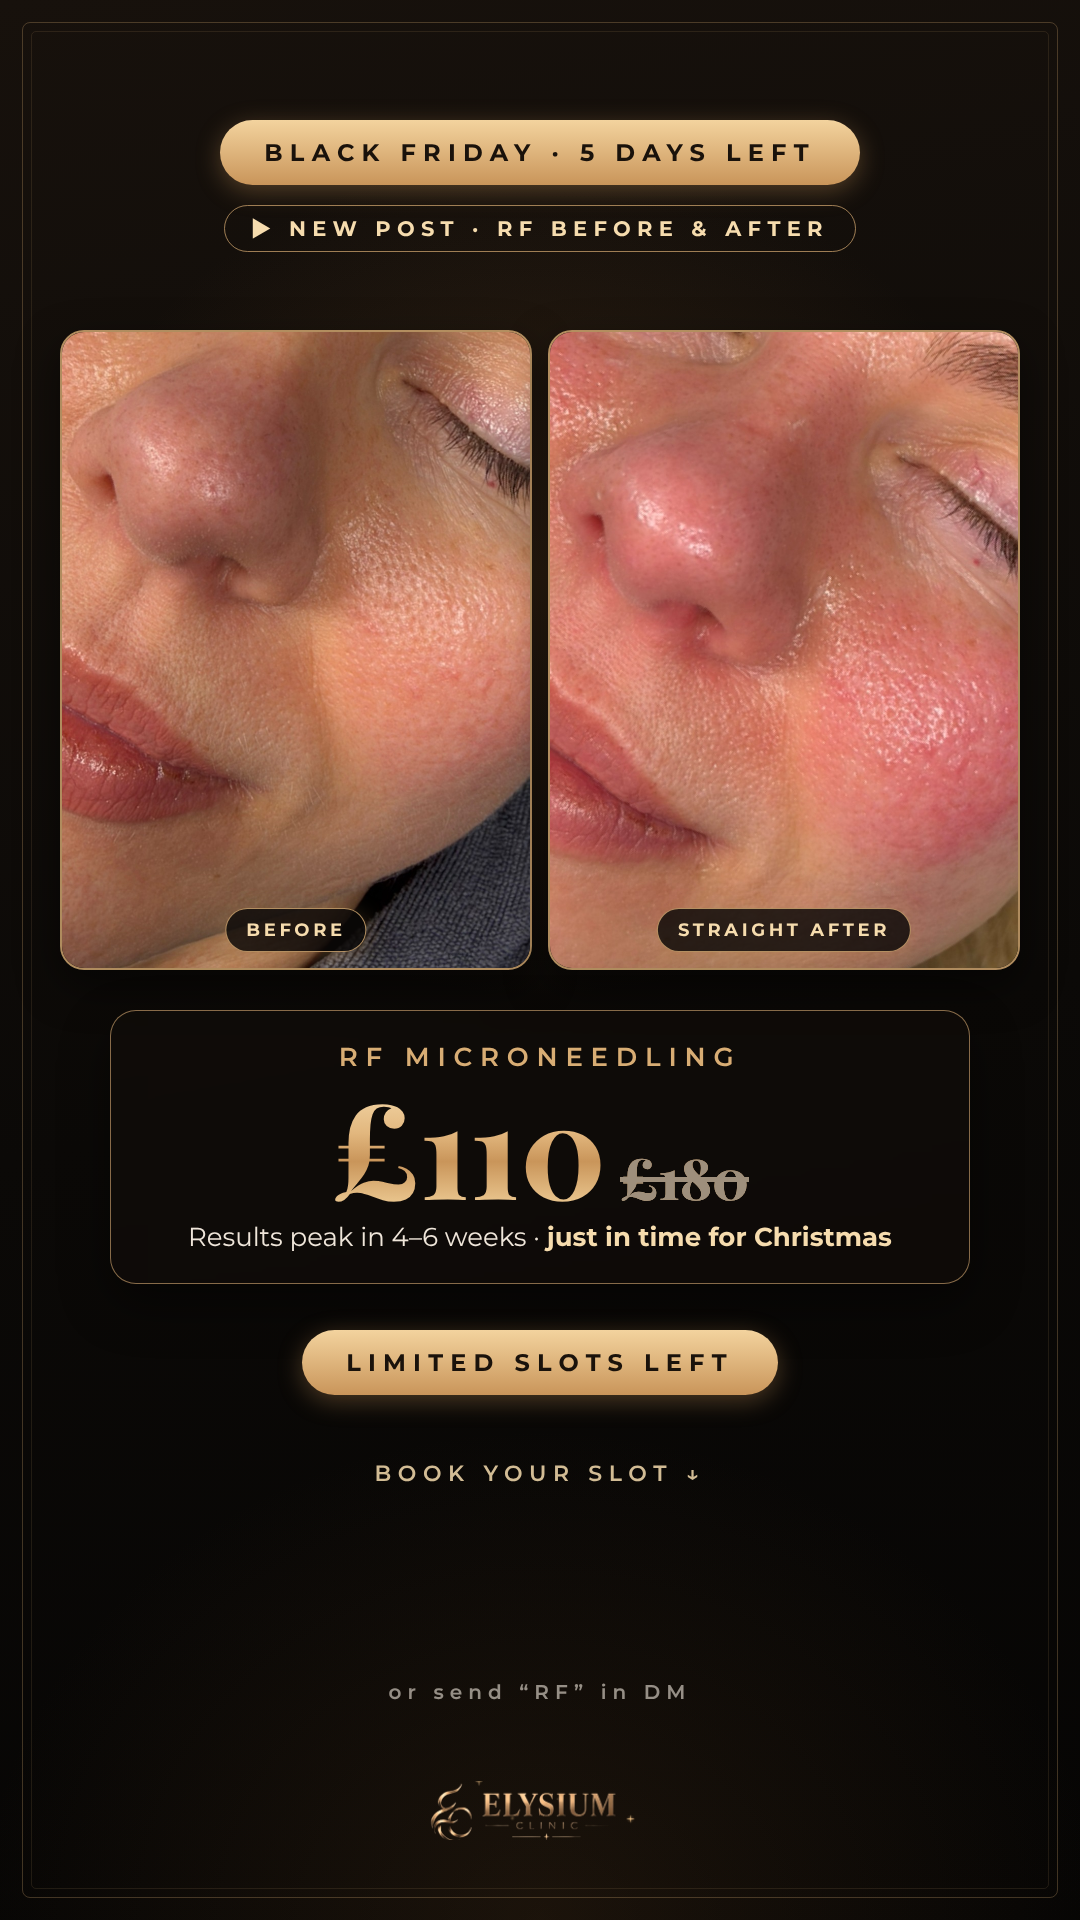
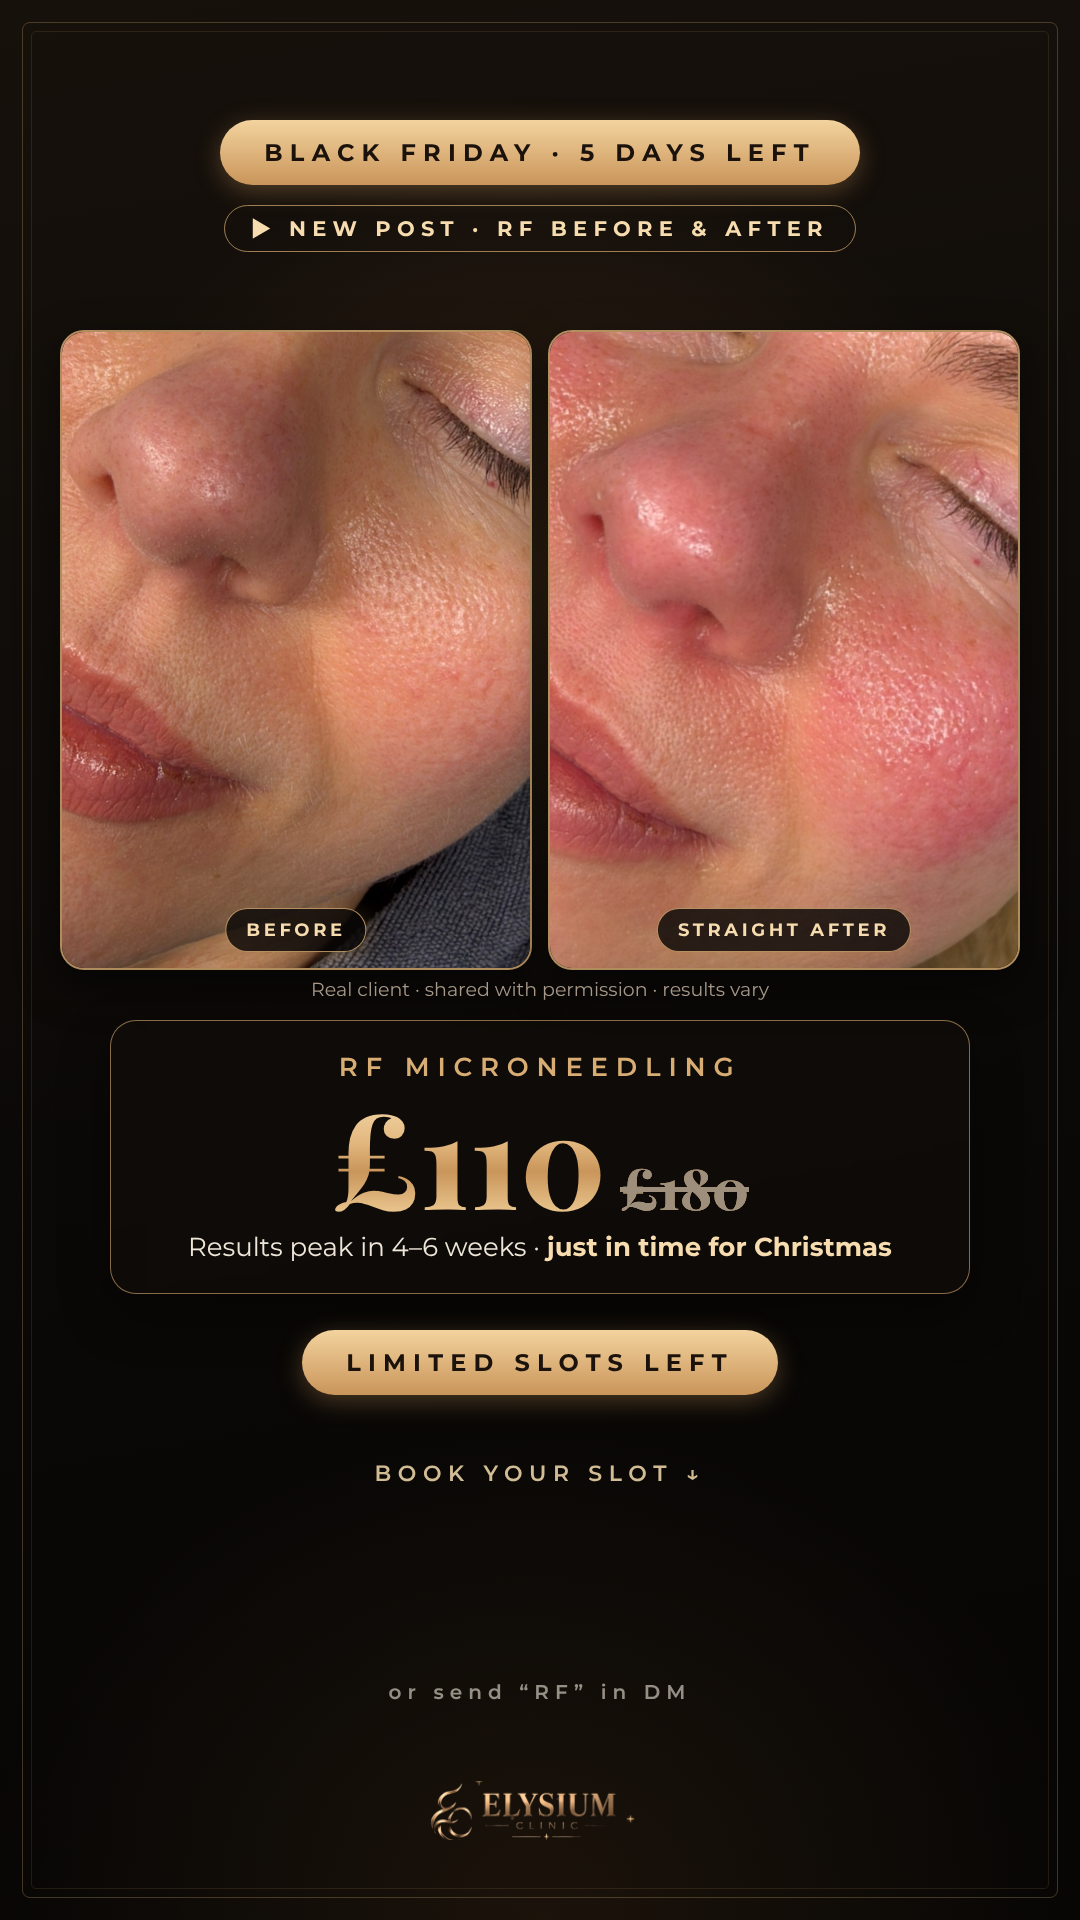
25.11: add client disclaimer to evening story
Claude-Session: https://claude.ai/code/session_01SaUhS5EeEBn7oMfuXG8zXf

Changed region(s): [[0.1833, 0.5312, 0.825, 0.6562]]

diff --git a/posts_25_11/src/s3_2030.html b/posts_25_11/src/s3_2030.html
@@ -22,7 +22,7 @@
 </style></head><body><div class="s"><div class="deco"></div>
 <div class="top"><div class="pill">BLACK FRIDAY · 5 DAYS LEFT</div><br><div class="new">▶ NEW POST · RF BEFORE &amp; AFTER</div></div>
 <div class="pair"><div class="ph2"><img src="c2_przed.jpg" style="object-position:center 35%"><div class="tag pill tg">BEFORE</div></div><div class="ph2"><img src="c2_po.jpg" style="object-position:center 35%"><div class="tag pill tg">STRAIGHT AFTER</div></div></div>
-<div class="card glass"><div class="nm">RF MICRONEEDLING</div><div class="pr goldtext">£110<s>£180</s></div><div class="ls">Results peak in 4–6 weeks · <b>just in time for Christmas</b></div></div>
+<div class="fine" style="top:978px;font-size:19px">Real client · shared with permission · results vary</div><div class="card glass" style="top:1020px"><div class="nm">RF MICRONEEDLING</div><div class="pr goldtext">£110<s>£180</s></div><div class="ls">Results peak in 4–6 weeks · <b>just in time for Christmas</b></div></div>
 <div class="slt"><div class="pill" style="font-size:24px">__SLOTS__</div></div>
 <div class="zone" style="top:1460px">BOOK YOUR SLOT ↓</div>
 <div class="zone" style="top:1680px;font-size:20px;color:rgba(239,230,218,.6)">or send “RF” in DM</div>
